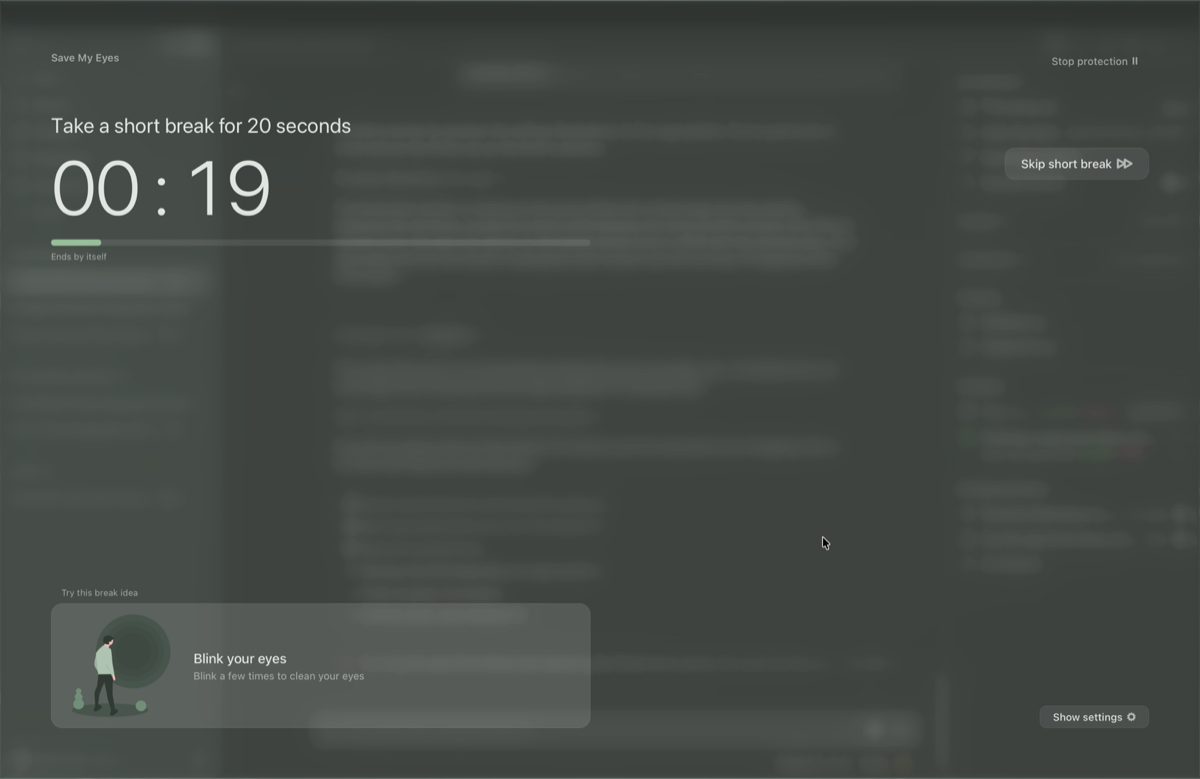
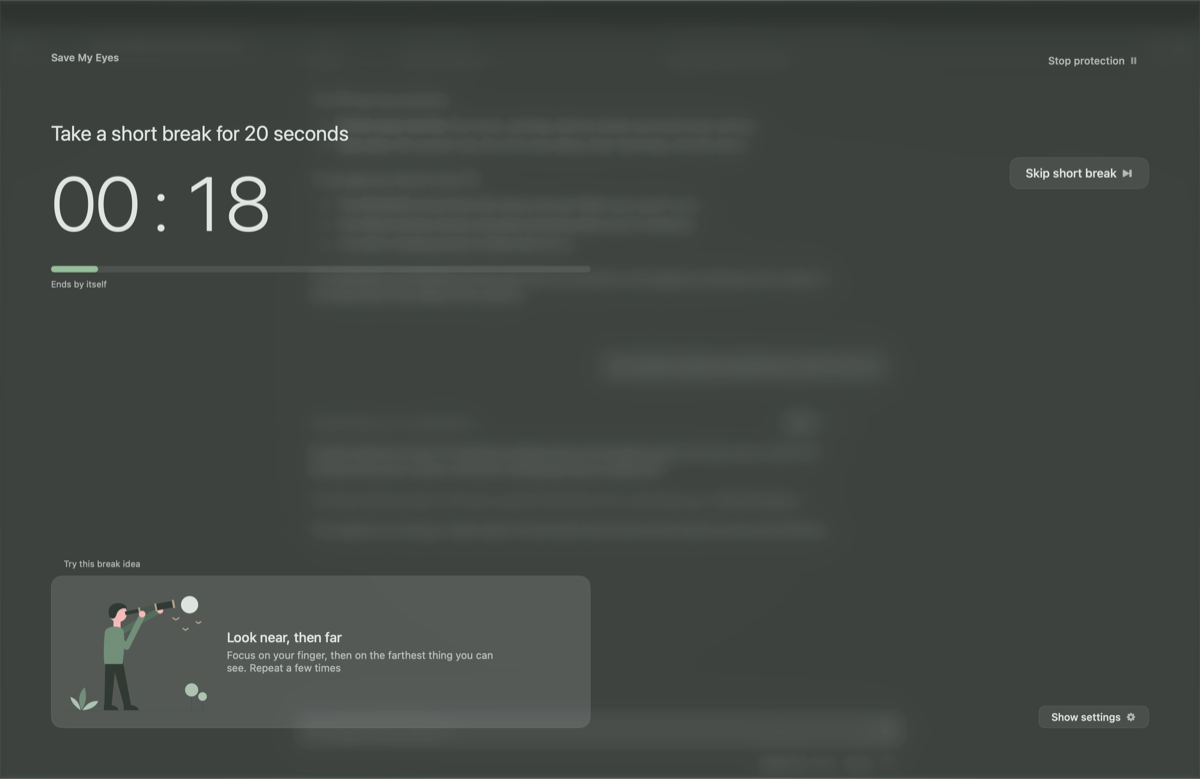
Retake the README's break cover screenshot with a new idea card
A capture of the debug build on real glass: a short break with the
"Look near, then far" idea and its spyglass drawing, in place of the
old "Blink your eyes" card whose title no longer exists.

diff --git a/README.md b/README.md
@@ -2,7 +2,7 @@
 
 A macOS menu-bar app that covers your screen for 20 seconds every 20 minutes, so you take the eye break you'd otherwise skip.
 
-![The break cover over a blurred desktop: "Take a short break for 20 seconds", a countdown at 00:19, a "Skip short break" button and a break idea, "Blink your eyes"](docs/design/05-break-cover.png)
+![The break cover over a blurred desktop: "Take a short break for 20 seconds", a countdown at 00:18, a "Skip short break" button and a break idea, "Look near, then far", with a drawing of a person looking through a spyglass](docs/design/05-break-cover.png)
 
 <img src="docs/design/01-menu.png" width="400" alt="The menu: next short break in 20 seconds, Start a long break now, Stop protection, Settings and Quit Save My Eyes">
 
